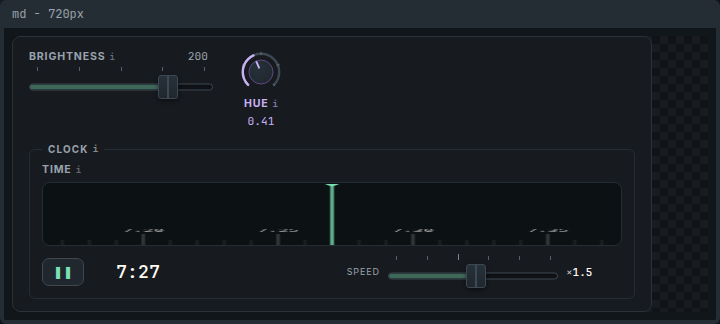
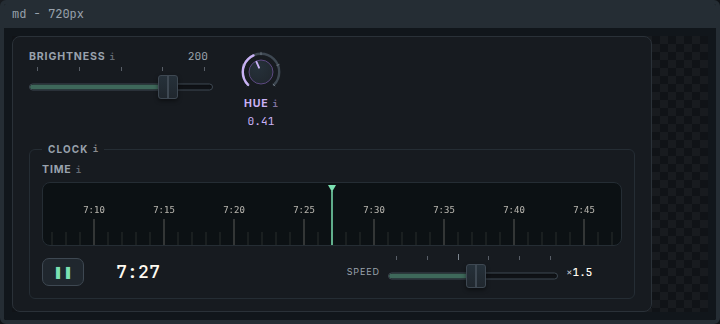
fix(studio): restore the 11 clock/transport baselines to the fixed render
main's post-merge run judged 11 baselines stale (9 clock-face, 2
transport) and could not auto-commit the refresh, because the bot
cannot push to protected main. Measured, the committed bytes are the
degraded 300x150 render (3px label, 110px major pitch) and the fresh
capture is what the code specifies (7px label, 70px pitch) — so the app
is right and the baselines are stale.

They are stale because resolving the repeated add/add PNG conflicts
with 'take ours' re-imported pre-fix bitmaps: after several merges from
main, this branch's own copy of some paths WAS main's degraded one.
Neither side of a baseline conflict is meaningful — the only correct
bytes are a fresh capture of the merged tree. Recorded in the defect.

Applied via the run's .refresh-manifest.json (the same helper CI uses),
so only the files the check judged stale move — not the sub-threshold
jitter the drift list also prints.

diff --git a/docs/defects/2026-08-08-tape-transport-baselines-oscillate.md b/docs/defects/2026-08-08-tape-transport-baselines-oscillate.md
@@ -113,6 +113,32 @@ baselines — and keep colliding with this branch on add/add PNG
 conflicts — until this lands, which is the argument for merging it
 promptly rather than letting it sit.
 
+**`git checkout --ours` on a baseline conflict is NOT a safe default —
+it re-landed the bug on main (2026-08-08).** Resolving the repeated
+add/add PNG conflicts, "take ours, my side is the fixed-code capture"
+looked obviously right and was wrong: after several merges from main,
+the branch's OWN copy of a file was, for some paths, main's degraded
+pre-fix bitmap that an earlier merge had imported. Applying that rule
+blanket-wise put 11 pre-fix baselines (9 clock-face, 2 transport) onto
+main, and main's next run failed with those exact 11 in its refresh
+manifest.
+
+The tell is that neither `--ours` nor `--theirs` is meaningful for a
+PNG whose content is a *capture of code*: the only correct bytes are a
+fresh capture of the merged tree. So on a baseline conflict, do not
+pick a side — take either to get the merge committed, then let CI
+re-capture and read the REFRESH MANIFEST (not the drift list) to see
+what is genuinely stale. `.refresh-manifest.json` inside the
+`story-images-fresh` artifact lists only files the check judged stale;
+the console drift list is much longer because it also prints
+sub-threshold jitter it tolerated. Recovering is `just
+studio-story-pull` on the branch whose run captured them — and when the
+run was on main (whose protected branch the bot cannot push to), that
+script finds nothing because it keys off the current branch: download
+the artifact from main's run and call `applyRefresh(freshDir,
+baselineDir)` from `story-apply-refresh.mjs` directly, which applies
+the same manifest semantics.
+
 **Lesson** — A defect fixed in one component recurs when the mechanism is
 re-implemented elsewhere; the class guard (`ux-box-sized-canvas` + gate)
 only protects canvases that opt in. Any NEW imperatively-painted canvas
